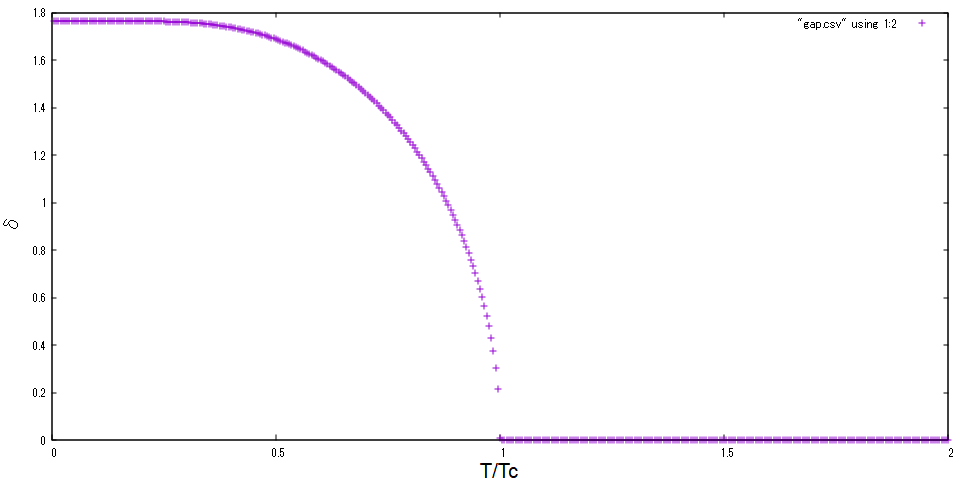
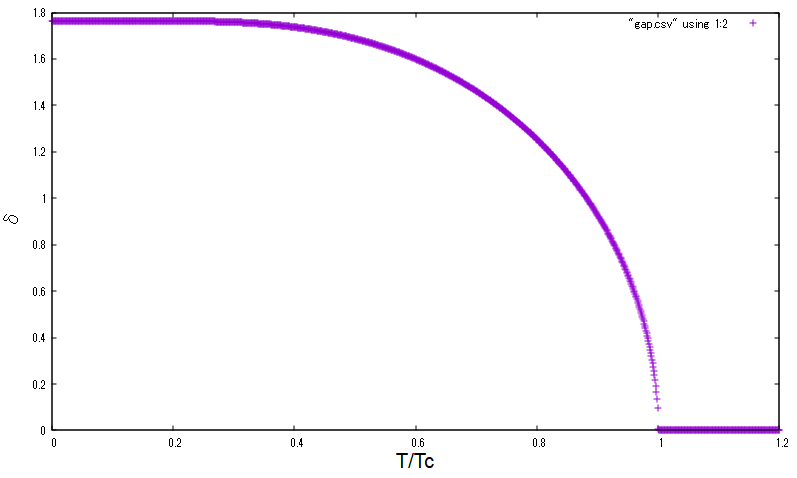
update

diff --git a/mvector.h b/mvector.h
@@ -1,0 +1,211 @@
+#ifndef MVECTOR_H
+#define MVECTOR_H
+
+#include <vector>
+#include <string>
+#include <iostream>
+#include <array>
+#include <assert.h>
+
+template<typename T>
+std::vector<T> operator*(const std::vector<T>& v1, const std::vector<T>& v2)
+{
+    std::vector<T> ans = v1;
+
+    const size_t vecSize = v1.size();
+    assert(vecSize == v2.size());
+
+    for(size_t i = 0; i < vecSize; ++i)
+        ans[i] *= v2[i];
+
+    return ans;
+}
+
+template<typename T>
+std::vector<T> operator*(const std::vector<T>& v1, const T& val)
+{
+    std::vector<T> ans = v1;
+
+    const size_t vecSize = v1.size();
+
+    for(size_t i = 0; i < vecSize; ++i)
+        ans[i] *= val;
+
+    return ans;
+}
+
+template<typename T>
+std::vector<T> operator*(const T& val, const std::vector<T>& v1)
+{
+    return v1 * val;
+}
+
+template<typename T>
+std::vector<T> operator/(const std::vector<T>& v1, const std::vector<T>& v2)
+{
+    std::vector<T> ans = v1;
+
+    const size_t vecSize = v1.size();
+    assert(vecSize == v2.size());
+
+    for(size_t i = 0; i < vecSize; ++i)
+        ans[i] /= v2[i];
+
+    return ans;
+}
+
+template<typename T>
+std::vector<T> operator/(const std::vector<T>& v1, const T& val)
+{
+    std::vector<T> ans = v1;
+
+    const size_t vecSize = v1.size();
+
+    for(size_t i = 0; i < vecSize; ++i)
+        ans[i] /= val;
+
+    return ans;
+}
+
+template<typename T>
+std::vector<T> operator/(const T& val, const std::vector<T>& v1)
+{
+    return v1 / val;
+}
+
+template<typename T>
+std::vector<T> operator+(const std::vector<T>& v1, const std::vector<T>& v2)
+{
+    std::vector<T> ans = v1;
+
+    const size_t vecSize = v1.size();
+    assert(vecSize == v2.size());
+
+    for(size_t i = 0; i < vecSize; ++i)
+        ans[i] += v2[i];
+
+    return ans;
+}
+
+template<typename T>
+std::vector<T> operator-(const std::vector<T>& v1, const std::vector<T>& v2)
+{
+    std::vector<T> ans = v1;
+
+    const size_t vecSize = v1.size();
+    assert(vecSize == v2.size());
+
+    for(size_t i = 0; i < vecSize; ++i)
+        ans[i] -= v2[i];
+
+    return ans;
+}
+
+template<typename T>
+void assignmentStdVec(std::vector<T>& v1, const std::vector<T>& v2)
+{
+    size_t vecSize = v1.size();
+    assert(vecSize == v2.size());
+
+    for(size_t i = 0; i < vecSize; ++i)
+        v1[i] = v2[i];
+}
+
+
+
+
+
+
+
+
+class LoadVector
+{
+public:
+    LoadVector() {}
+    LoadVector(const std::string& path, const char& separator = ',')
+        : _path(path)
+        , _separator(separator) {}
+    virtual ~LoadVector() {}
+
+private:
+    template<typename T, typename U>
+    static void setDataFromStr(T& array, const U& index, const std::string& str)
+    {
+        if constexpr(std::is_same_v<T, double>)
+            array[index] = std::stod(str);
+        else if constexpr(std::is_same_v<T, float>)
+            array[index] = std::stof(str);
+        else if constexpr(std::is_same_v<T, int>)
+            array[index] = std::stoi(str);
+        else if constexpr(std::is_same_v<T, std::string>)
+            array[index] = str;
+        else
+            return;
+    }
+
+public:
+    template<typename T, size_t N>
+    static std::vector<std::array<T, N>> load(const std::string& path, const char& separator = ',')
+    {
+        std::vector<std::array<T, N>> data(0);
+
+        std::ifstream fin(path);
+        if(fin.fail()) return data;
+
+        std::string str = "";
+        std::string stack = "";
+        std::array<T, N> line({});
+
+        while(std::getline(fin, str))
+        {
+            size_t col = 0;
+
+            for(const char& c : str)
+            {
+                if(c == separator)
+                {
+                    setDataFromStr(line, col, stack);
+
+                    col += 1;
+
+                    stack.clear();
+                }
+                else if(c == ' ')
+                {
+                    continue;
+                }
+                else
+                {
+                    stack += c;
+                }
+            }
+
+            if(stack.size() > 0)
+            {
+                setDataFromStr(line, col, stack);
+                stack.clear();
+            }
+
+            data.push_back(line);
+        }
+
+        return data;
+    }
+
+    template<typename T, size_t N>
+    std::vector<std::array<T, N>> load()
+    {
+        return LoadVector::load<T, N>(_path, separator);
+    }
+
+    void setPath(const std::string& path) { _path = path; }
+    void setSeparator(const char& separator) { _separator = separator; }
+    std::string path() const noexcept { return _path; }
+    char separator() const noexcept { return _separator; }
+
+private:
+    std::string _path;
+    char _separator;
+};
+
+#endif // MVECTOR_H

diff --git a/main.cpp b/main.cpp
@@ -1,23 +1,46 @@
 #include "solve_self-consistent.h"
-#include "integral.h"
 #include "gapequation.h"
 #include <math.h>
 #include <iostream>
 #include <fstream>
+#include <vector>
 
-int main()
+//debug
+#include "mvector.h"
+#include "differential.h"
+
+void createGapData(const std::string& filePath)
 {
     GapEquation gapEquation;
 
-    std::ofstream fout("E:/repos/SuperconductivityGapEquation/gap.csv");
+    std::ofstream fout(filePath);
 
-    for(double T = 0.005; T < 2.0; T += 0.005)
+    static constexpr size_t dataPoints = 1200;
+    static constexpr double init = 1.5;
+    static constexpr double eps = 1e-4;
+
+    for(size_t i = 1; i < dataPoints + 1; ++i)
     {
+        double T = static_cast<double>(i) / 1000.0;
+
         gapEquation.param.T = T;
-        const double value = SolveSelfConsistent<SolveSCAlgorithm::Steffensen>::solve(&gapEquation, &GapEquation::gapEquation, 1.5, 1e-4);
-        std::cout << T << " : " << value << std::endl;
-        fout << T << ", " << value << "\n";
+        const double gap = SolveSelfConsistent<SolveSCAlgorithm::Steffensen>::solve(&gapEquation, &GapEquation::gapEquation, init, eps);
+
+        std::cout << T << " : " << gap << std::endl;
+        fout << T << ", " << gap << "\n";
     }
+}
+
+int main()
+{
+    //createGapData("E:/repos/SuperconductivityGapEquation/gnuplot/gap.csv");
+
+    std::vector<std::array<double, 2> > data;
+    data = LoadVector::load<double, 2>("E:/repos/SuperconductivityGapEquation/gnuplot/gap.csv");
+
+    std::vector<double> diffGap = Differential<DiffAlgorithm::Central>::differentiate(data);
+
+    assignmentStdVec(diffGap, diffGap * 2.0 / 3.2 * diffGap);
 
     return 0;
 }

diff --git a/differential.h b/differential.h
@@ -1,0 +1,36 @@
+#ifndef DIFFERENTIAL_H
+#define DIFFERENTIAL_H
+
+#include <vector>
+#include <array>
+
+enum class DiffAlgorithm { Central };
+
+template<DiffAlgorithm = DiffAlgorithm::Central>
+class Differential
+{
+public:
+    Differential();
+    virtual ~Differential() {}
+
+public:
+    template<typename T>
+    static std::vector<T> differentiate(const std::vector<std::array<T, 2>>& data)
+    {
+        const size_t dataSize = data.size();
+        const size_t lastIndex = dataSize - 1;
+        std::vector<T> diff(dataSize);
+
+        diff[0] = (data[1][1] - data[0][1]) / (data[1][0] - data[0][0]);
+        diff[lastIndex] = (data[lastIndex][1] - data[lastIndex - 1][1]) / (data[lastIndex][0] - data[lastIndex - 1][0]);
+
+        for(size_t i = 0; i < dataSize - 1; ++i)
+        {
+            diff[i] = (data[i + 1][1] - data[i - 1][1]) / (data[i + 1][0] - data[i - 1][0]);
+        }
+
+        return diff;
+    }
+};
+
+#endif // DIFFERENTIAL_H
